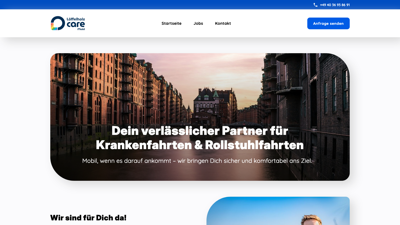
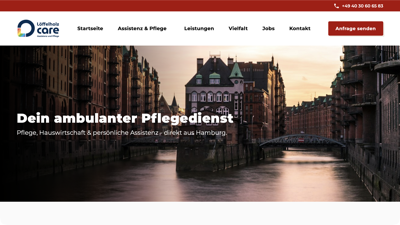
feat: integrate sitemap functionality and update project details for improved SEO and user experience

diff --git a/src/data/projects.ts b/src/data/projects.ts
@@ -100,18 +100,30 @@ export const projects: Project[] = [
   {
     slug: 'loeffelholz-care',
     image: '/assets/images/project-card-loeffelholz-care-20260605.png',
+    mobileImage: {
+      src: '/assets/images/projects/loeffelholz-care-mobile-20260721.jpg',
+      alt: 'Löffelholz Care homepage on mobile, scrolled through the Hamburg Speicherstadt hero, the founder photo, and the "Ein Rundum-Sorglospaket" section',
+    },
     images: [
       {
-        src: '/assets/images/projects/loeffelholz-care-live-20260605.png',
-        alt: 'Löffelholz Care Mobil live website screenshot',
+        src: '/assets/images/projects/loeffelholz-care-hero-20260721.png',
+        alt: 'Löffelholz Care homepage hero showing Hamburg\'s Speicherstadt at dusk with the headline "Dein ambulanter Pflegedienst"',
+      },
+      {
+        src: '/assets/images/projects/loeffelholz-care-hauswirtschaft-20260721.png',
+        alt: 'Illustrated Hauswirtschaft service card listing grocery shopping, cleaning, laundry, and meal preparation',
+      },
+      {
+        src: '/assets/images/projects/loeffelholz-care-kontakt-20260721.png',
+        alt: 'Contact form on the Kontakt page with fields for name, email, phone, and message',
       },
     ],
-    alt: 'Löffelholz Care Mobil Landing Page',
-    title: 'Landing Page for a Nursing Business',
+    alt: 'Löffelholz Care Website',
+    title: 'Website for a Home Care Provider',
     client: 'Löffelholz Care',
     topicTag: 'Web Design',
     tags: ['Webflow', 'Mobile-First', 'Frontend'],
-    description: 'A mobile-first Webflow website for Löffelholz Care, an ambulatory care provider in Hamburg offering nursing care, housekeeping, personal assistance, and care consulting.',
+    description: 'Löffelholz Care is an ambulatory care service in Hamburg, run by founder Martin Löffelholz with about 60 staff. The site focuses on showing their services clearly, mobile-first with large text for easy readability, since many clients are older. Since 2023 the company has partnered with Schwulenberatung Berlin\'s Lebensort Vielfalt project and joined the Welcoming Out network. The homepage shows the Progress Pride flag next to both partner badges.\n\nThe site runs on Webflow, with the phone number in a fixed bar above the navigation on every page. Cookiebot handles cookie consent. Webflow\'s CMS lets the Löffelholz Care team update pages themselves without a developer.',
     category: 'web',
   },
   {

diff --git a/src/styles/global.css b/src/styles/global.css
@@ -923,12 +923,6 @@ a.project-card {
 
 .project-detail__back {
   align-self: flex-start;
-  margin-left: -12px;
-  color: var(--dark-grey);
-}
-
-[data-theme='dark'] .project-detail__back {
-  color: var(--dark-grey);
 }
 
 .project-detail__header {
@@ -1188,19 +1182,15 @@ a.project-card {
   }
 
   .hero__links {
-    flex-direction: column;
-    align-items: stretch;
-    width: 100%;
     gap: 10px;
     margin-top: 4px;
+    width: 100%;
   }
 
   .hero__links .primaryButton,
   .hero__links .secondaryButton {
-    width: 100%;
+    flex: 1 1 0;
     text-align: center;
-    padding-top: 10px;
-    padding-bottom: 10px;
   }
 
   h1 {
@@ -1209,11 +1199,8 @@ a.project-card {
   }
 
   .subtitle {
-    padding-left: 16px;
-    border-left: 3px solid #d97757;
-    color: var(--dark-grey);
     font-size: 1rem;
-    line-height: 1.55;
+    line-height: 1.5;
   }
 
   .status__dot {
